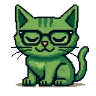
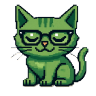
Buddy: strip the baked shadow from the blink sprite
The blink frame (familiar-px-blink.png) carried a soft gray ground-shadow from
its cutout that the clean open frame doesn't have, so the blink read as a poor
edit each time it swapped in. Rebuilt the frame from the blink artwork + the
open frame's clean alpha (the silhouettes align, only the eyes differ), which
drops the shadow while keeping the cat pixel-identical. pawup/lick were already
clean. Cache-bust the blink src (?v=2) so the fix lands immediately.

diff --git a/app/routes/web.tsx b/app/routes/web.tsx
@@ -263,7 +263,7 @@ function Buddy({ hud, authed, mode }: { hud: { name: string; ads: number; level:
  * with CSS: it idly bobs and breathes, blinks on its own by swapping frames, and
  * bursts gold pixel-sparks when tapped. Each instance self-animates on its own
  * rAF; honours prefers-reduced-motion (stays still). */
-const FAM = { open: "/familiar-px.png", blink: "/familiar-px-blink.png", pawup: "/familiar-px-pawup.png", lick: "/familiar-px-lick.png" };
+const FAM = { open: "/familiar-px.png", blink: "/familiar-px-blink.png?v=2", pawup: "/familiar-px-pawup.png", lick: "/familiar-px-lick.png" };
 function famBurst(el: HTMLElement) {
   const img = el.querySelector("img.mm-fam-img") as HTMLImageElement | null;
   if (img) img.animate([{ filter: "brightness(1)" }, { filter: "brightness(1.4)" }, { filter: "brightness(1)" }], { duration: 400, easing: "ease-out" });
